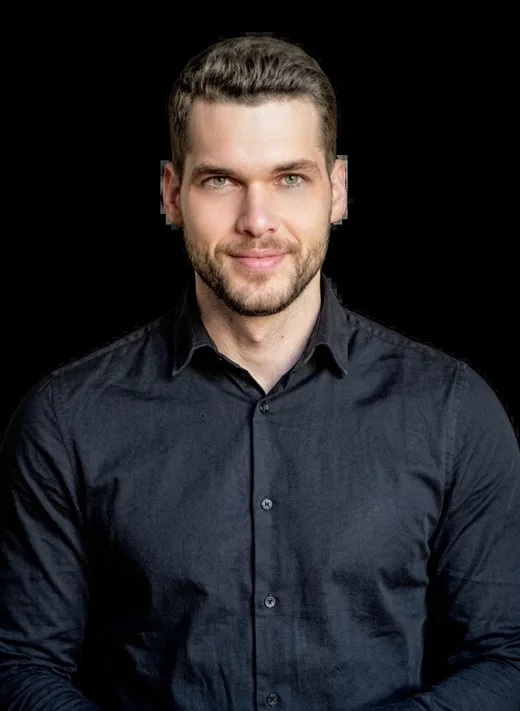
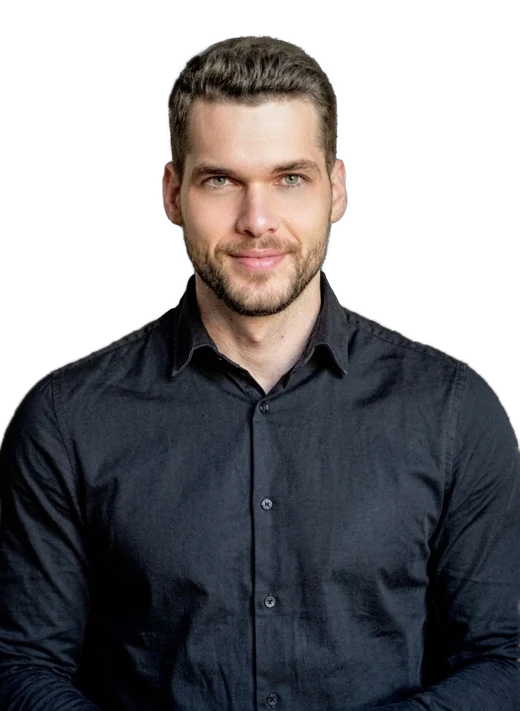
About portrait: clean cutout edges on the small file, accurate sizes hint, rebuilt share images
The 520px portrait was saved with lossy alpha and showed grey blocks around the ears on desktop. Regenerated with lossless alpha. The sizes hint now matches the real rendered width on phones. The share-image script now flattens the transparent portrait onto the card colour before converting.

diff --git a/es/about.html b/es/about.html
@@ -12,7 +12,7 @@
   <!-- Open Graph -->
   <meta property="og:title" content="Sobre mí · Jose Romero, Senior Product Designer">
   <meta property="og:description" content="12 años diseñando productos digitales para cuentas empresariales en banca, retail, marketplace, hostelería y seguros.">
-  <meta property="og:image" content="https://www.joseromerodesign.com/assets/images/og-about-es.webp?v=2">
+  <meta property="og:image" content="https://www.joseromerodesign.com/assets/images/og-about-es.webp?v=3">
   <meta property="og:url" content="https://www.joseromerodesign.com/es/about/">
   <meta property="og:type" content="website">
   <meta property="og:site_name" content="Jose Romero">
@@ -22,7 +22,7 @@
   <meta name="twitter:card" content="summary_large_image">
   <meta name="twitter:title" content="Sobre mí · Jose Romero, Senior Product Designer">
   <meta name="twitter:description" content="12 años diseñando productos digitales para cuentas empresariales en banca, retail, marketplace, hostelería y seguros.">
-  <meta name="twitter:image" content="https://www.joseromerodesign.com/assets/images/og-about-es.webp?v=2">
+  <meta name="twitter:image" content="https://www.joseromerodesign.com/assets/images/og-about-es.webp?v=3">
 
   <!-- Schema.org AboutPage -->
   <script type="application/ld+json">
@@ -109,8 +109,8 @@
   <link rel="preload" href="/assets/fonts/bitter-latin-normal.woff2" as="font" type="font/woff2" crossorigin>
   <link rel="preload" href="/assets/fonts/bitter-latin-italic.woff2" as="font" type="font/woff2" crossorigin>
   <link rel="preload" href="/assets/images/portrait-standing.webp" as="image" fetchpriority="high"
-    imagesrcset="/assets/images/portrait-standing-520.webp 520w, /assets/images/portrait-standing.webp 778w"
-    imagesizes="(max-width: 900px) 260px, 420px">
+    imagesrcset="/assets/images/portrait-standing-520.webp?v=2 520w, /assets/images/portrait-standing.webp 778w"
+    imagesizes="(max-width: 720px) calc(100vw - 2.5rem), (max-width: 900px) 40vw, 420px">
   <link rel="icon" href="/favicon.ico?v=2" sizes="any">
   <link rel="icon" href="/favicon.svg?v=2" type="image/svg+xml">
   <link rel="icon" type="image/png" sizes="32x32" href="/favicon-32x32.png?v=2">
@@ -235,8 +235,8 @@
           <div class="about-portrait hero-animate">
             <div class="portrait-frame">
               <img src="/assets/images/portrait-standing.webp"
-                srcset="/assets/images/portrait-standing-520.webp 520w, /assets/images/portrait-standing.webp 778w"
-                sizes="(max-width: 900px) 260px, 420px" alt="Jose Romero, Senior Product Designer" class="portrait-img"
+                srcset="/assets/images/portrait-standing-520.webp?v=2 520w, /assets/images/portrait-standing.webp 778w"
+                sizes="(max-width: 720px) calc(100vw - 2.5rem), (max-width: 900px) 40vw, 420px" alt="Jose Romero, Senior Product Designer" class="portrait-img"
                 width="778" height="1064" loading="eager" decoding="async" fetchpriority="high">
             </div>
             <div class="portrait-caption">Jose Romero · Zaragoza, España</div>

diff --git a/about.html b/about.html
@@ -14,7 +14,7 @@
   <meta property="og:title" content="About · Jose Romero, Senior Product Designer">
   <meta property="og:description"
     content="12 years designing digital products for banking, retail, marketplaces, hospitality and insurance. Now embedded in IKEA’s New Business Platform in Spain.">
-  <meta property="og:image" content="https://www.joseromerodesign.com/assets/images/og-about.webp?v=2">
+  <meta property="og:image" content="https://www.joseromerodesign.com/assets/images/og-about.webp?v=3">
   <meta property="og:url" content="https://www.joseromerodesign.com/about/">
   <meta property="og:type" content="website">
   <meta property="og:site_name" content="Jose Romero">
@@ -25,7 +25,7 @@
   <meta name="twitter:title" content="About · Jose Romero, Senior Product Designer">
   <meta name="twitter:description"
     content="12 years designing digital products for banking, retail, marketplaces, hospitality and insurance. Now embedded in IKEA’s New Business Platform in Spain.">
-  <meta name="twitter:image" content="https://www.joseromerodesign.com/assets/images/og-about.webp?v=2">
+  <meta name="twitter:image" content="https://www.joseromerodesign.com/assets/images/og-about.webp?v=3">
 
   <!-- Schema.org AboutPage -->
   <script type="application/ld+json">
@@ -105,8 +105,8 @@
   <link rel="preload" href="/assets/fonts/bitter-latin-normal.woff2" as="font" type="font/woff2" crossorigin>
   <link rel="preload" href="/assets/fonts/bitter-latin-italic.woff2" as="font" type="font/woff2" crossorigin>
   <link rel="preload" href="/assets/images/portrait-standing.webp" as="image" fetchpriority="high"
-    imagesrcset="/assets/images/portrait-standing-520.webp 520w, /assets/images/portrait-standing.webp 778w"
-    imagesizes="(max-width: 900px) 260px, 420px">
+    imagesrcset="/assets/images/portrait-standing-520.webp?v=2 520w, /assets/images/portrait-standing.webp 778w"
+    imagesizes="(max-width: 720px) calc(100vw - 2.5rem), (max-width: 900px) 40vw, 420px">
   <link rel="icon" href="/favicon.ico?v=2" sizes="any">
   <link rel="icon" href="/favicon.svg?v=2" type="image/svg+xml">
   <link rel="icon" type="image/png" sizes="32x32" href="/favicon-32x32.png?v=2">
@@ -243,8 +243,8 @@
           <div class="about-portrait hero-animate">
             <div class="portrait-frame">
               <img src="/assets/images/portrait-standing.webp"
-                srcset="/assets/images/portrait-standing-520.webp 520w, /assets/images/portrait-standing.webp 778w"
-                sizes="(max-width: 900px) 260px, 420px" alt="Jose Romero, Senior Product Designer" class="portrait-img"
+                srcset="/assets/images/portrait-standing-520.webp?v=2 520w, /assets/images/portrait-standing.webp 778w"
+                sizes="(max-width: 720px) calc(100vw - 2.5rem), (max-width: 900px) 40vw, 420px" alt="Jose Romero, Senior Product Designer" class="portrait-img"
                 width="778" height="1064" loading="eager" decoding="async" fetchpriority="high">
             </div>
             <div class="portrait-caption">Jose Romero · Zaragoza, Spain</div>

diff --git a/scripts/build_og_images.py b/scripts/build_og_images.py
@@ -113,7 +113,14 @@ EXTRA_VISUALS = {
 
 def extra_visual(slug):
     src, ground = EXTRA_VISUALS[slug]
-    im = Image.open(ROOT / src).convert("RGB")
+    im = Image.open(ROOT / src).convert("RGBA")
+    if ground:
+        # flatten onto the card colour; a bare RGBA->RGB convert keeps the junk
+        # colour stored under transparent pixels and shows it as grey blocks
+        flat = Image.new("RGBA", im.size, (*ground, 255))
+        flat.alpha_composite(im)
+        im = flat
+    im = im.convert("RGB")
     im = im.resize((round(im.width * 1260 / im.height), 1260), Image.LANCZOS)
     ground = ground or im.getpixel((min(40, im.width - 1), 40))
     VISUALS.mkdir(parents=True, exist_ok=True)
